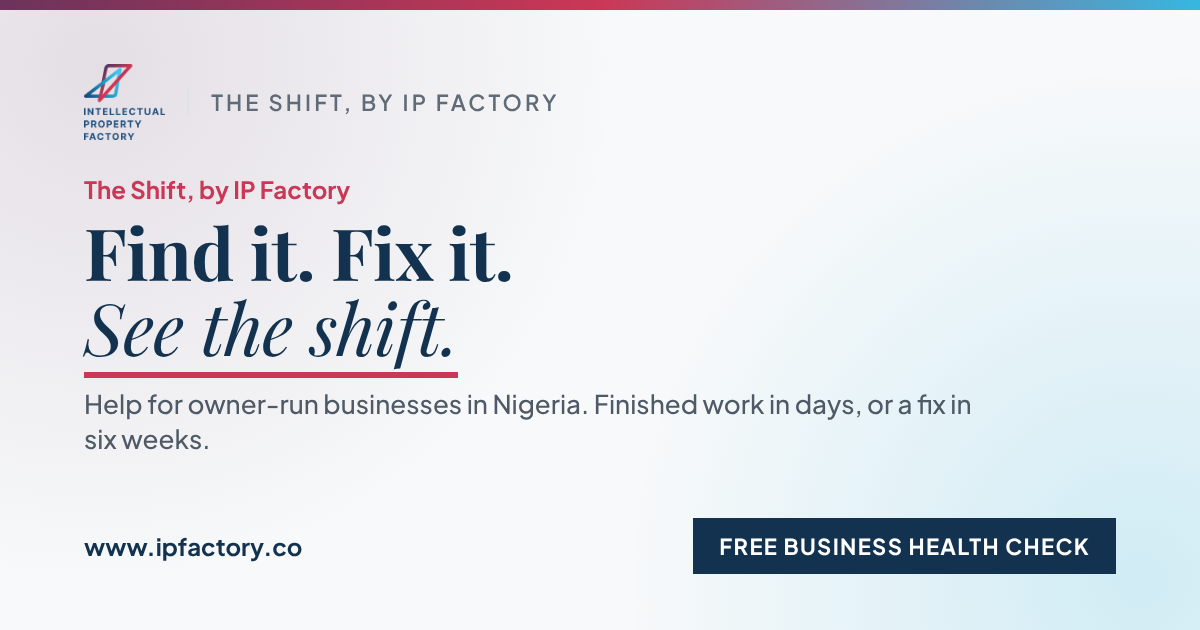
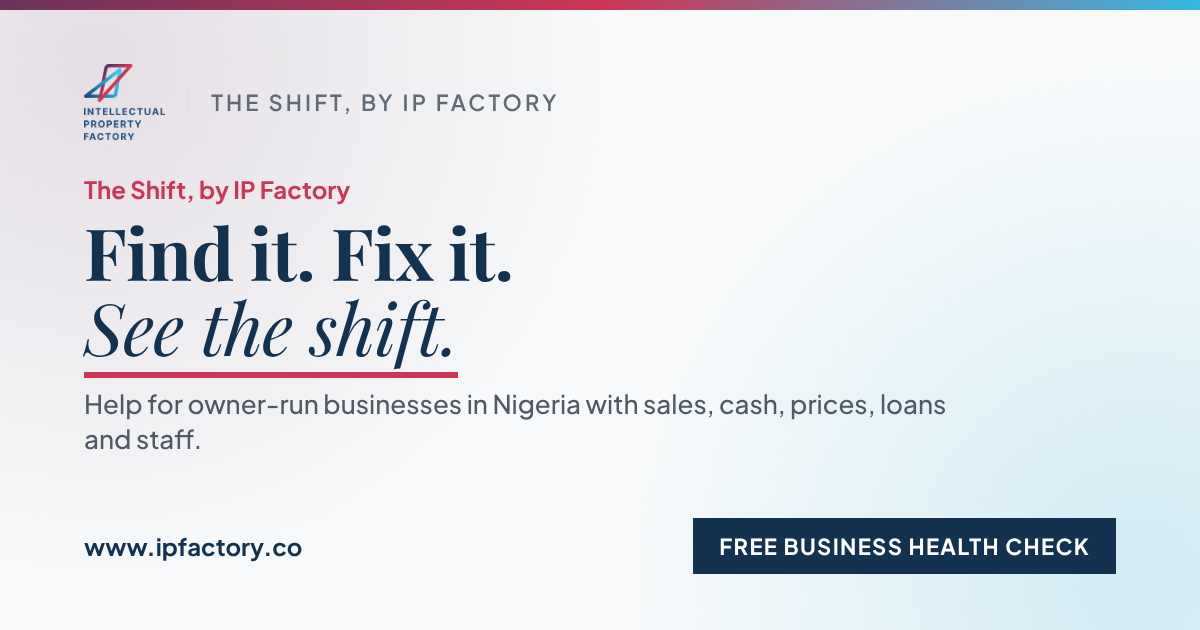
Services page in the owner's words: "Sales slow? Cash tight? Need a loan?"
ET, 10 November 2026: "Help that does the work. Finished work in days. A fix
in six weeks. Every price on the page." read out of touch with the owners we
serve. The heading now names their three commonest worries, each question
kept on one line (so a phone never breaks "Cash / tight?"), and the line under
it says how we help and what it costs: "Pick the help your business needs. We
do the work for you, or with you. Every price is on the page, in naira."

The words live once in shared/pageMeta.ts (SERVICES_HEADING, SERVICES_SUB), so
the page, the pre-rendered page and its share card say the same. The search
description and the share-card lines of Services and the home page drop the
same shorthand ("Finished work in days, or a fix in six weeks"); both cards
are re-rendered. Decision log updated; a UI test holds the new words.

Claude-Session: https://claude.ai/code/session_01Q2r64sNm7T8MW5eH65ApRf

Changed region(s): [[0.4933, 0.6032, 0.8017, 0.6635], [0.0617, 0.6635, 0.185, 0.7238]]

diff --git a/shared/seo.ts b/shared/seo.ts
@@ -11,7 +11,7 @@ import { QUESTION_GROUPS } from "./siteQuestions";
 import { GUIDES, guidePath } from "./guides";
 
 export { HOME_META, PAGE_META, pageTitle, productMeta, SERVICE_SEARCH_TITLES, SITE_ORIGIN } from "./pageMeta";
-import { HOME_META, PAGE_META, pageTitle, productMeta, SITE_ORIGIN, type Meta } from "./pageMeta";
+import { HOME_META, PAGE_META, pageTitle, productMeta, SERVICES_HEADING, SERVICES_SUB, SITE_ORIGIN, type Meta } from "./pageMeta";
 import { ABOUT_FAQ, ABOUT_HEADING, ABOUT_SUB } from "./about";
 
 const ORGANISATION_ID = `${SITE_ORIGIN}/#organisation`;
@@ -110,8 +110,8 @@ export function publicPages(): PublicPage[] {
     return { path, title: meta.title, description: meta.description, heading, body, jsonLd: [org, ...(trail.length ? [breadcrumbJsonLd(trail)] : []), ...extra], card: shareCard };
   };
   pagesCache = [
-    page("/", HOME_META, "Find it. Fix it. See the shift.", [HOME_META.description], [], HOME_META.title, { eyebrow: BRAND.productEndorsement, lines: ["Find it. Fix it.", "See the shift."], line: "Help for owner-run businesses in Nigeria. Finished work in days, or a fix in six weeks." }),
-    page("/services", PAGE_META.services, "Help that does the work.", [PAGE_META.services.description, ...MENU_PRODUCTS.map((product) => `${product.name}: ${priceLabel(product.price)}. ${product.short}`)], [], PAGE_META.services.title, { line: "Every service with its price and delivery time, for businesses across Nigeria." }),
+    page("/", HOME_META, "Find it. Fix it. See the shift.", [HOME_META.description], [], HOME_META.title, { eyebrow: BRAND.productEndorsement, lines: ["Find it. Fix it.", "See the shift."], line: "Help for owner-run businesses in Nigeria with sales, cash, prices, loans and staff." }),
+    page("/services", PAGE_META.services, SERVICES_HEADING, [SERVICES_SUB, PAGE_META.services.description, ...MENU_PRODUCTS.map((product) => `${product.name}: ${priceLabel(product.price)}. ${product.short}`)], [], PAGE_META.services.title, { lines: ["Sales slow? Cash tight?", "Need a loan?"], line: "Help with sales, cash, prices and loans, for businesses across Nigeria. Every price in naira." }),
     ...MENU_PRODUCTS.map((product) => {
       const story = storyOf(product.id);
       return page(servicePath(product), productMeta(product), story ? story.headline.join(" ") : product.name, [productMeta(product).description, ...product.youGet], [serviceJsonLd(product), ...(story?.faq.length ? [faqJsonLd(story.faq)] : [])], product.name, { eyebrow: product.name, lines: story ? story.headline : [product.name], line: product.short, badge: priceLabel(product.price) });

diff --git a/shared/pageMeta.ts b/shared/pageMeta.ts
@@ -7,6 +7,15 @@ import { BRAND } from "./brand";
 import { storyOf } from "./productStories";
 import { priceLabel, type Product } from "./products";
 
+/**
+ * The Services page in the owner's own words (ET, 10 November 2026: "Help that does the work. Finished work in days. A
+ * fix in six weeks." read out of touch with the owners we serve). Its heading names their three commonest worries, each
+ * a question kept on one line; the line under it says how we help and what it costs. The page, search engines and the
+ * share card all read these.
+ */
+export const SERVICES_HEADING = "Sales slow? Cash tight? Need a loan?";
+export const SERVICES_SUB = "Pick the help your business needs. We do the work for you, or with you. Every price is on the page, in naira.";
+
 /** The site's public address. Every canonical link, sitemap entry and share card points here. */
 export const SITE_ORIGIN = "https://www.ipfactory.co";
 
@@ -49,7 +58,7 @@ export const SERVICE_SEARCH_TITLES: Partial<Record<Product["id"], string>> = {
 };
 
 export const PAGE_META = {
-  services: { title: "Services", description: `Every service of ${BRAND.productEndorsement}, with its price and delivery time: assessments, Done for You work, the Six-Week Fix and Monthly Services, for businesses across Nigeria.` },
+  services: { title: "Services", description: "Help with your sales, cash, records, prices and loans, for small businesses across Nigeria. Every service with its price in naira and its delivery time." },
   howWeWork: { title: "How we work", description: `How ${BRAND.productName} works: the free Business Health Check, the four ways to work with us and how each is paid, and what every piece of work comes with.` },
   experience: { title: "Experience", description: `The record behind ${BRAND.productName}: ${BRAND.trackRecord.clients} clients advised since ${BRAND.trackRecord.since}, the businesses we have worked with, and the research behind the method.` },
   guides: { title: "Guides for small business owners in Nigeria", description: "Plain answers to what owners search for: my business is struggling, how to get a business loan in Nigeria, what a business plan costs, cash flow problems and pricing for profit." },

diff --git a/client/src/pages/ServicesPage.tsx b/client/src/pages/ServicesPage.tsx
@@ -14,7 +14,7 @@ import { displayPrice } from "@/lib/productPrice";
 import { ArrowRight } from "lucide-react";
 import React, { useState } from "react";
 import { Link } from "wouter";
-import { PAGE_META } from "@shared/pageMeta";
+import { PAGE_META, SERVICES_HEADING, SERVICES_SUB } from "@shared/pageMeta";
 
 /** The eyebrow over a page or section heading: small crimson capitals. */
 export const EYEBROW = "text-sm font-semibold text-brand";
@@ -35,8 +35,11 @@ export default function ServicesPage() {
   return (
     <SiteShell>
       <section className="container mx-auto max-w-6xl pt-16 pb-8 text-center sm:pt-20">
-        <h1 className="font-display mx-auto max-w-3xl text-[clamp(2.6rem,7vw,4.75rem)] font-semibold leading-[1.02] tracking-[-0.035em] text-ink">Help that does the work.</h1>
-        <p className="mx-auto mt-5 max-w-xl text-[clamp(1.15rem,2.4vw,1.45rem)] leading-snug text-ink-soft">Finished work in days. A fix in six weeks. Every price on the page.</p>
+        {/* The owner's three worries, each question kept on one line: "Sales slow? Cash tight?" then "Need a loan?". */}
+        <h1 className="font-display mx-auto max-w-5xl text-[clamp(2.6rem,7vw,4.75rem)] font-semibold leading-[1.02] tracking-[-0.035em] text-ink">
+          {SERVICES_HEADING.split(/(?<=\?)\s+/).map((question, index) => <React.Fragment key={question}>{index > 0 && " "}<span className="whitespace-nowrap">{question}</span></React.Fragment>)}
+        </h1>
+        <p className="mx-auto mt-5 max-w-2xl text-balance text-[clamp(1.15rem,2.4vw,1.45rem)] leading-snug text-ink-soft">{SERVICES_SUB}</p>
         <div role="group" aria-label="Filter by way to buy" className="mt-8 flex flex-wrap justify-center gap-2">
           {(["all", ...WAYS_TO_BUY] as const).map((option) => (
             <button key={option} type="button" aria-pressed={way === option} onClick={() => setWay(option)} className={`border px-4 py-2 text-sm font-semibold transition-colors ${way === option ? "border-ink bg-ink text-paper" : "border-line bg-paper-raised text-ink-soft hover:border-ink-muted"}`}>

diff --git a/test/client/pages/services.ui.test.tsx b/test/client/pages/services.ui.test.tsx
@@ -38,6 +38,16 @@ const at = (path: string) => render(
 afterEach(cleanup);
 
 describe("the services page (/services), laid out as a store", () => {
+  it("opens in the owner's words: their commonest worries, how we help and that every price is shown in naira (ET, 10 November 2026)", () => {
+    at("/services");
+    expect(screen.getByRole("heading", { level: 1 }).textContent).toBe("Sales slow? Cash tight? Need a loan?");
+    // Each question stays on one line, so a phone never breaks "Cash / tight?".
+    expect(Array.from(screen.getByRole("heading", { level: 1 }).querySelectorAll("span.whitespace-nowrap"), (part) => part.textContent)).toEqual(["Sales slow?", "Cash tight?", "Need a loan?"]);
+    expect(screen.getByText("Pick the help your business needs. We do the work for you, or with you. Every price is on the page, in naira.")).toBeTruthy();
+    // The consultant's shorthand it replaced is gone.
+    expect(screen.queryByText(/Help that does the work|Finished work in days/)).toBeNull();
+  });
+
   it("shows one tile per service with its promise, its price and its page, and the parent firm for larger work", () => {
     at("/services");
     const shelf = within(screen.getByRole("region", { name: "Products" }));

diff --git a/docs/product/08-decision-log.md b/docs/product/08-decision-log.md
@@ -8,6 +8,7 @@ now the Business Review (₦600,000), and the JUMP programme views have been rem
 
 | Decision | Taken by |
 |---|---|
+| The Services page opens in the owner's words: "Sales slow? Cash tight? Need a loan?", then how we help and that every price is on the page in naira; "Help that does the work. Finished work in days. A fix in six weeks." read out of touch with the owners we serve, and goes from the page, search results and the share cards | ET, 10 November 2026 |
 | Batch F's design is approved (App flow 3.1). Only Finance and the Super Admin record money by hand (`manage_payments`, as decided on 6 November for payments), so the engagement team's Paid tick goes with batch F | ET, 10 November 2026 |
 | Writing off a fee is for a Partner or the Super Admin only (a new permission, `write_off_fees`, with batch F) | ET, 10 November 2026 |
 | A fee can be paid in parts by hand as well as online; Paystack then charges only what is left | ET, 10 November 2026 |
